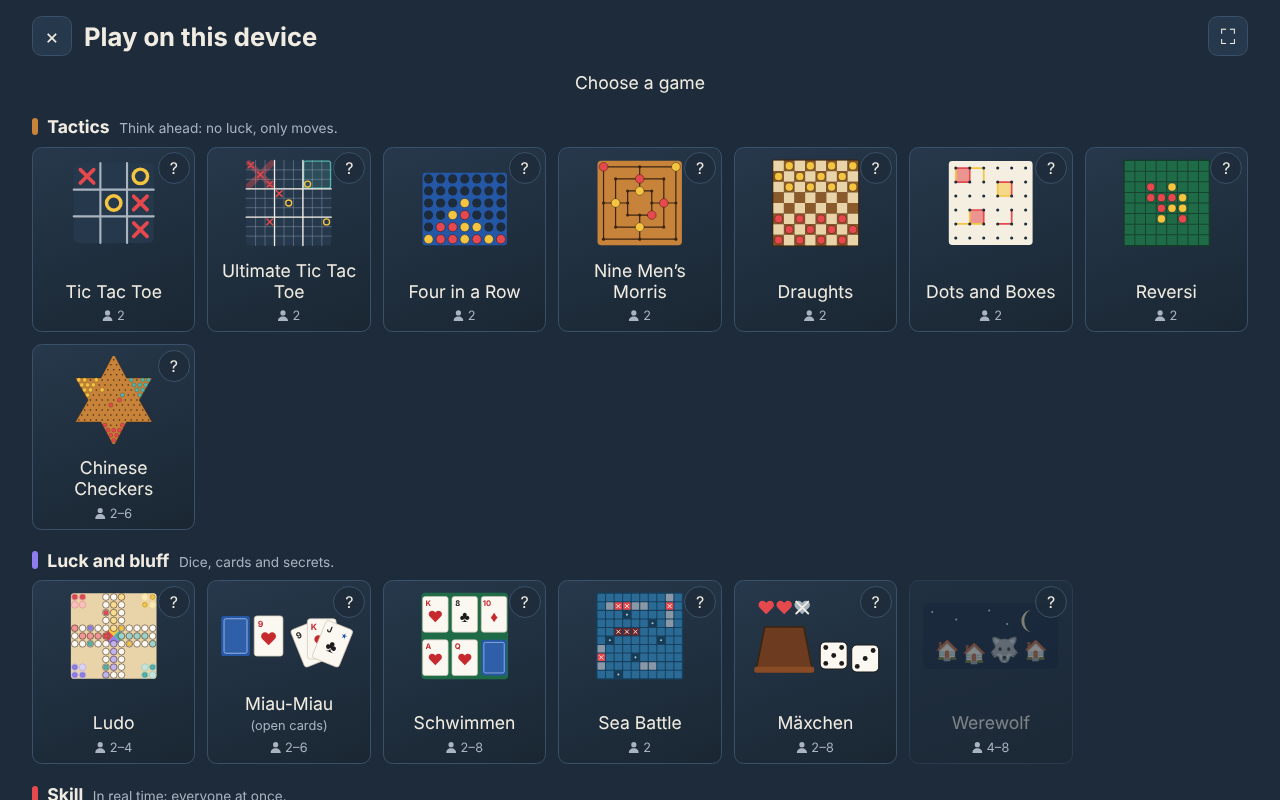
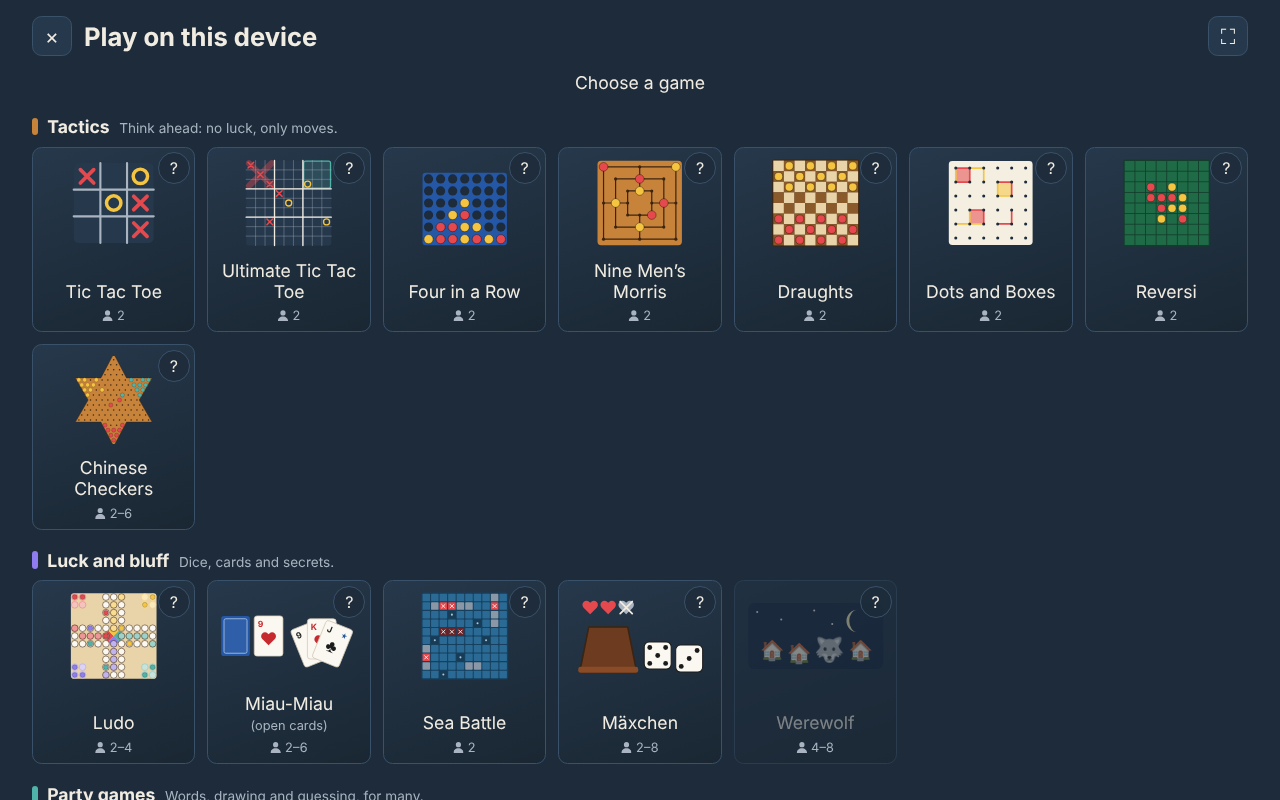
Test, document and picture Stadt, Land, Fluss
Browser tests for two phones and for one device, a README screenshot,
its rules in docs/GAMES.md, its messages in docs/NETWORKING.md, and the
kept text fields in docs/ARCHITECTURE.md. PROTOCOL goes to 11.

Claude-Session: https://claude.ai/code/session_01LTkkJNv9vfWUHTZ2KFqQVg

diff --git a/tests/e2e/words.spec.ts b/tests/e2e/words.spec.ts
@@ -1,0 +1,98 @@
+import type { Page } from '@playwright/test'
+import { expect, test } from './coverage'
+import { phone, seat } from './helpers'
+
+/**
+ * The party games of words between phones: in Stadt, Land, Fluss everyone writes at once, the
+ * fields keep what is typed while the table changes, and the answers are checked together.
+ */
+
+/** Types an answer for each category, starting with the letter, a key at a time. */
+async function writeAll(page: Page, letter: string, tag: string): Promise<void> {
+  const fields = page.locator('.answer-fields input')
+  for (let i = 0; i < 6; i++) {
+    await fields.nth(i).click()
+    await page.keyboard.type(`${letter}${tag}${i}`, { delay: 20 })
+  }
+}
+
+test('two phones play a round of City, Country, River', async ({ browser }) => {
+  const ada = await phone(browser, 'Ada')
+  const bo = await phone(browser, 'Bo')
+  await ada.getByRole('button', { name: 'Open a table' }).click()
+  await seat(ada, bo)
+  await ada.getByRole('button', { name: 'City, Country, River' }).click()
+  const letter = (await ada.locator('.letter-card .letter').textContent()) ?? ''
+  await expect(bo.locator('.letter-card .letter')).toHaveText(letter)
+  await expect(bo.locator('.status.turn')).toHaveText(
+    `Letter ${letter}: a word for every category!`,
+  )
+
+  // Both type at once: each phone's table changes with the other's answers, and the field
+  // being typed in stays, focused, with every letter.
+  await Promise.all([writeAll(ada, letter, 'ada'), writeAll(bo, letter, 'bo')])
+  await expect(bo.locator('.answer-fields input').nth(5)).toBeFocused()
+  await expect(bo.locator('.answer-fields input').nth(5)).toHaveValue(`${letter}bo5`)
+  await expect(ada.locator('.writers')).toContainText('Bo 6 of 6')
+  // Nobody sees another's answers yet.
+  await expect(bo.locator('body')).not.toContainText(`${letter}ada0`)
+
+  await ada.getByRole('button', { name: 'Stop!' }).click()
+  await expect(bo.locator('.status.turn')).toContainText('Ada called Stop!')
+  await expect(bo.locator('.status.turn')).toHaveText('Check the answers, then tap Next.', {
+    timeout: 15_000,
+  })
+
+  // Bo objects to Ada's city: with one other at the table, it is struck.
+  const city = bo.locator('.category').first()
+  await city.getByRole('button', { name: new RegExp(`Ada, ${letter}ada0`) }).click()
+  for (const page of [ada, bo]) {
+    await expect(page.locator('.category').first().locator('.word.struck')).toHaveText(
+      `${letter}ada0`,
+    )
+  }
+  await expect(ada.locator('.totals')).toContainText('Ada +50')
+  await expect(ada.locator('.totals')).toContainText('Bo +70')
+
+  for (const page of [ada, bo]) await page.getByRole('button', { name: 'Next round' }).click()
+  for (const page of [ada, bo]) {
+    await expect(page.locator('.letter-card .round')).toContainText('Round 2 of 5')
+    await expect(page.locator('.answer-fields input').first()).toHaveValue('')
+  }
+  await expect(ada.locator('.letter-card .letter')).not.toHaveText(letter)
+})
+
+test('three write City, Country, River in turn on one device', async ({ browser }) => {
+  const page = await phone(browser, 'Ada')
+  await page.getByRole('button', { name: 'Play on this device' }).click()
+  await page.getByRole('group', { name: 'Players' }).getByRole('button', { name: '3' }).click()
+  for (const [i, name] of ['Ada', 'Bo', 'Cy'].entries()) {
+    await page.getByLabel(`Name of player ${i + 1}`).fill(name)
+  }
+  await page.getByLabel('One screen, taking turns').check()
+  await page.getByRole('button', { name: 'Start' }).click()
+  await page.getByRole('button', { name: 'City, Country, River' }).click()
+  await expect(page.locator('.notice')).toContainText('everyone writes in turn')
+
+  for (const [i, name] of ['Ada', 'Bo', 'Cy'].entries()) {
+    await page.getByRole('button', { name: `I am ${name}: show my letter` }).click()
+    const letter = (await page.locator('.letter-card .letter').textContent()) ?? ''
+    await expect(page.locator('.status.turn')).toHaveText(
+      `${name} writes: letter ${letter}. The others look away.`,
+    )
+    await page.locator('.answer-fields input').first().fill(`${letter}${name}`)
+    await page.getByRole('button', { name: 'Done: next one' }).click()
+    if (i < 2) await page.getByRole('button', { name: /Done: hand over to/ }).click()
+  }
+  await expect(page.locator('.status.turn')).toHaveText('Check the answers together.')
+  await expect(page.locator('.category').first().locator('.word')).toHaveText([
+    /Ada$/,
+    /Bo$/,
+    /Cy$/,
+  ])
+  // One tap strikes Bo's city.
+  await page.locator('.category').first().locator('button.answer-check').nth(1).click()
+  await expect(page.locator('.category').first().locator('.word.struck')).toHaveCount(1)
+  await page.getByRole('button', { name: 'Next round' }).click()
+  await expect(page.getByRole('button', { name: 'Done: hand over to Ada' })).toBeVisible()
+})

diff --git a/tests/screenshots/screenshots.spec.ts b/tests/screenshots/screenshots.spec.ts
@@ -308,6 +308,31 @@ test('Werewolf', async ({ browser }) => {
   await shot(page, 'werwolf')
 })
 
+/** Answers for the letter the seeded game draws first, a row for each player. */
+const WORDS = [
+  ['Oslo', 'Österreich', 'Oder', 'Olga', 'Otter', 'Optikerin'],
+  ['Oldenburg', 'Oman', 'Oker', 'Oskar', 'Okapi', 'Oboist'],
+  ['Oslo', 'Ostfriesland', '', 'Ole', 'Orca', 'Ofensetzer'],
+]
+
+test('City, Country, River', async ({ browser }) => {
+  const page = await device(browser, PHONE)
+  await local(page, NAMES.slice(0, 3))
+  await page.getByRole('button', { name: 'City, Country, River' }).click()
+  for (const [i, answers] of WORDS.entries()) {
+    await page.getByRole('button', { name: /show my letter/ }).click()
+    await expect(page.locator('.letter-card .letter')).toHaveText('O')
+    for (const [c, word] of answers.entries()) {
+      await page.locator('.answer-fields input').nth(c).fill(word)
+    }
+    await page.getByRole('button', { name: 'Done: next one' }).click()
+    if (i < WORDS.length - 1) await page.getByRole('button', { name: /Done: hand over/ }).click()
+  }
+  // Cy's country is not one: the others strike it.
+  await page.locator('.category').nth(1).locator('button.answer-check').nth(2).click()
+  await shot(page, 'stadtlandfluss')
+})
+
 /**
  * Over the network, the host may hear from the other phone a moment earlier or later, which can
  * move the puck by a few pixels: only a larger change takes a new picture of Air Hockey.

diff --git a/docs/NETWORKING.md b/docs/NETWORKING.md
@@ -106,7 +106,7 @@ The host ticks 30 times a second (`TICK_MS`). It sends the table every tick whil
 | `round`                | the number of the game, counting rematches: a move or input for another round is ignored                   |
 | `moveNo`, `last`       | how many moves were made, and the last one, so phones can show it (never in Werwolf: it would tell a vote) |
 | `outcome`, `scores`    | winner and winning line, or draw; points per player id                                                     |
-| one field for the game | `position`, `ludo`, `cards`, `sea`, `dice`, `village`, `race` or `rink`: the others are `null`             |
+| one field for the game | `position`, `ludo`, `cards`, `sea`, `dice`, `village`, `words`, `race` or `rink`: the others are `null`    |
 
 Every field is checked: sizes fit the game and the number of seats, pieces belong to seats that play, cards come from one deck without repeats, a disc is on or near the rink.
 
@@ -116,20 +116,21 @@ Every field is checked: sizes fit the game and the number of seats, pieces belon
 { type: 'move', game, moveNo, move: number[] }
 ```
 
-A move names the game and the move number it is meant to be. The host takes it only from the player whose turn it is, only if it is that move number, and only if the rules allow it, so a move sent twice, or one meant for a position that has passed, counts at most once. Games where everyone chooses at once (Sea Battle's fleets, Werwolf's choices) take a choice whatever its move number, as long as it belongs to the phase now on.
+A move names the game and the move number it is meant to be. The host takes it only from the player whose turn it is, only if it is that move number, and only if the rules allow it, so a move sent twice, or one meant for a position that has passed, counts at most once. Games where everyone chooses at once (Sea Battle's fleets, Werwolf's choices, the answers of Stadt, Land, Fluss) take a choice whatever its move number, as long as it belongs to the phase now on. Words travel as their characters' numbers, one for each, which the host cleans and cuts.
 
 ### Each game
 
-| Game                                                                             | Table field                                                 | Everyone sees                                          | A move (`number[]`)                                                                  |
-| -------------------------------------------------------------------------------- | ----------------------------------------------------------- | ------------------------------------------------------ | ------------------------------------------------------------------------------------ |
-| Tic Tac Toe, Vier in einer Reihe, Mühle, Dame, Käsekästchen, Reversi, Sternhalma | `position`: board, turn, pieces in hand, phase, quiet moves | everything                                             | a path of cells: one cell or column, from and to, or every square of a jump          |
-| Ludo                                                                             | `ludo`: every piece's step, die, turn, last move            | everything; the host rolls                             | `4` rolls, `0`–`3` moves that piece                                                  |
-| Miau-Miau                                                                        | `cards`: `MiauView`                                         | their own hand, the others' counts, the top card       | a card `0`–`51` (with a wished suit for a jack), `52` draws, `53` passes             |
-| Sea Battle                                                                       | `sea`: `SeaView`                                            | their own fleet, every shot, the hits, the ships sunk  | a shot `0`–`99`, or a fleet: each ship's first square, plus 100 if it lies down      |
-| Mäxchen                                                                          | `dice`: `MaexView`                                          | lives, claims; the dice only the roller, until a doubt | `1` rolls, `2` doubts, `3` gives up, a throw such as `53` claims it                  |
-| Werwolf                                                                          | `village`: `WolfView`                                       | their own role, fellow wolves', the seer's findings    | the seat chosen                                                                      |
-| Lichtrenner                                                                      | `race`: riders' walls as the cells where they turn          | everything                                             | no moves; input `[round, heading]`                                                   |
-| Air hockey                                                                       | `rink`: puck, mallets, goals, pause, `clock`                | everything                                             | no moves; input `[round, x, y]`, where the mallet should go in the player's own half |
+| Game                                                                             | Table field                                                 | Everyone sees                                          | A move (`number[]`)                                                                      |
+| -------------------------------------------------------------------------------- | ----------------------------------------------------------- | ------------------------------------------------------ | ---------------------------------------------------------------------------------------- |
+| Tic Tac Toe, Vier in einer Reihe, Mühle, Dame, Käsekästchen, Reversi, Sternhalma | `position`: board, turn, pieces in hand, phase, quiet moves | everything                                             | a path of cells: one cell or column, from and to, or every square of a jump              |
+| Ludo                                                                             | `ludo`: every piece's step, die, turn, last move            | everything; the host rolls                             | `4` rolls, `0`–`3` moves that piece                                                      |
+| Miau-Miau                                                                        | `cards`: `MiauView`                                         | their own hand, the others' counts, the top card       | a card `0`–`51` (with a wished suit for a jack), `52` draws, `53` passes                 |
+| Sea Battle                                                                       | `sea`: `SeaView`                                            | their own fleet, every shot, the hits, the ships sunk  | a shot `0`–`99`, or a fleet: each ship's first square, plus 100 if it lies down          |
+| Mäxchen                                                                          | `dice`: `MaexView`                                          | lives, claims; the dice only the roller, until a doubt | `1` rolls, `2` doubts, `3` gives up, a throw such as `53` claims it                      |
+| Werwolf                                                                          | `village`: `WolfView`                                       | their own role, fellow wolves', the seer's findings    | the seat chosen                                                                          |
+| Stadt, Land, Fluss                                                               | `words`: `WordsView`                                        | their own answers; everyone's once they are checked    | `[1, category, …characters]` writes, `2` stops, `[3, seat, category]` objects, `4` ready |
+| Lichtrenner                                                                      | `race`: riders' walls as the cells where they turn          | everything                                             | no moves; input `[round, heading]`                                                       |
+| Air hockey                                                                       | `rink`: puck, mallets, goals, pause, `clock`                | everything                                             | no moves; input `[round, x, y]`, where the mallet should go in the player's own half     |
 
 **Games in real time** have no turns. A player's phone sends what they want now as the room's input, 30 times a second, of which only the newest counts, after the `round` it is meant for, so last game's input never steers the next. The host runs the game by the time that passed: Lichtrenner moves a cell a step on a grid; air hockey moves its puck in steps of 1/240 s, so nothing slides through a mallet, and each state carries the host's game time, `clock`, to the millisecond.
 

diff --git a/README.md b/README.md
@@ -49,9 +49,11 @@ Games for everyone at one table: board games, card and dice games, party games a
   </tr>
   <tr>
     <td><img src="docs/screenshots/ultimate.png" alt="Ultimate Tic Tac Toe on a phone: nine small boards, two of them won, and the board to play in marked"></td>
+    <td><img src="docs/screenshots/stadtlandfluss.png" alt="City, Country, River: the letter O, and every player's answers with their points, one of them struck"></td>
   </tr>
   <tr>
     <td>Ultimate Tic Tac Toe</td>
+    <td>City, Country, River: checking the answers</td>
   </tr>
 </table>
 
@@ -59,7 +61,7 @@ On a laptop or a tablet, the game chooser, and games on one device, taking turns
 
 <table>
   <tr>
-    <td colspan="2"><img src="docs/screenshots/chooser.png" alt="The game chooser: Tactics, Luck and bluff, and Skill, each game with its picture and number of players"></td>
+    <td colspan="2"><img src="docs/screenshots/chooser.png" alt="The game chooser: Tactics, Luck and bluff, Party games and Skill, each game with its picture and number of players"></td>
   </tr>
   <tr>
     <td width="50%"><img src="docs/screenshots/miaumiau-split.png" alt="Miau-Miau for four on a split screen, each part with its own hand"></td>
@@ -106,16 +108,16 @@ In the app, phones can also connect **by Bluetooth**, without any Wi-Fi. On a la
 
 ## The games
 
-| Tactics                                                       | Luck and bluff                            | Skill                                           |
-| ------------------------------------------------------------- | ----------------------------------------- | ----------------------------------------------- |
-| [Tic Tac Toe](docs/GAMES.md#tic-tac-toe), 2                   | [Ludo](docs/GAMES.md#ludo), 2–4           | [Light Racers](docs/GAMES.md#light-racers), 2–6 |
-| [Ultimate Tic Tac Toe](docs/GAMES.md#ultimate-tic-tac-toe), 2 | [Miau-Miau](docs/GAMES.md#miau-miau), 2–6 | [Air Hockey](docs/GAMES.md#air-hockey), 2       |
-| [Four in a Row](docs/GAMES.md#four-in-a-row), 2               | [Schwimmen](docs/GAMES.md#schwimmen), 2–8 |                                                 |
-| [Nine Men's Morris](docs/GAMES.md#nine-mens-morris), 2        | [Sea Battle](docs/GAMES.md#sea-battle), 2 |                                                 |
-| [Draughts](docs/GAMES.md#draughts), 2                         | [Mäxchen](docs/GAMES.md#mäxchen), 2–8     |                                                 |
-| [Dots and Boxes](docs/GAMES.md#dots-and-boxes), 2             | [Werewolf](docs/GAMES.md#werewolf), 4–8   |                                                 |
-| [Reversi](docs/GAMES.md#reversi), 2                           |                                           |                                                 |
-| [Chinese Checkers](docs/GAMES.md#chinese-checkers), 2–6       |                                           |                                                 |
+| Tactics                                                       | Luck and bluff                            | Party                                                         | Skill                                           |
+| ------------------------------------------------------------- | ----------------------------------------- | ------------------------------------------------------------- | ----------------------------------------------- |
+| [Tic Tac Toe](docs/GAMES.md#tic-tac-toe), 2                   | [Ludo](docs/GAMES.md#ludo), 2–4           | [City, Country, River](docs/GAMES.md#city-country-river), 2–8 | [Light Racers](docs/GAMES.md#light-racers), 2–6 |
+| [Ultimate Tic Tac Toe](docs/GAMES.md#ultimate-tic-tac-toe), 2 | [Miau-Miau](docs/GAMES.md#miau-miau), 2–6 |                                                               | [Air Hockey](docs/GAMES.md#air-hockey), 2       |
+| [Four in a Row](docs/GAMES.md#four-in-a-row), 2               | [Schwimmen](docs/GAMES.md#schwimmen), 2–8 |                                                               |                                                 |
+| [Nine Men's Morris](docs/GAMES.md#nine-mens-morris), 2        | [Sea Battle](docs/GAMES.md#sea-battle), 2 |                                                               |                                                 |
+| [Draughts](docs/GAMES.md#draughts), 2                         | [Mäxchen](docs/GAMES.md#mäxchen), 2–8     |                                                               |                                                 |
+| [Dots and Boxes](docs/GAMES.md#dots-and-boxes), 2             | [Werewolf](docs/GAMES.md#werewolf), 4–8   |                                                               |                                                 |
+| [Reversi](docs/GAMES.md#reversi), 2                           |                                           |                                                               |                                                 |
+| [Chinese Checkers](docs/GAMES.md#chinese-checkers), 2–6       |                                           |                                                               |                                                 |
 
 Each game's rules are in the Spielekiste, a step at a time with drawings, and in short in [docs/GAMES.md](docs/GAMES.md).
 

diff --git a/docs/ARCHITECTURE.md b/docs/ARCHITECTURE.md
@@ -26,6 +26,12 @@ Sea Battle (`src/core/seeschlacht.ts`) works the same way: the host alone knows 
 
 Dice and roles stay hidden the same way. In Mäxchen (`src/core/maexchen.ts`), the host rolls with the browser's cryptographic randomness, and only the roller's `MaexView` holds the dice, until a doubt lifts the cup for everyone. A move is a number: 1 rolls, 2 doubts, 3 gives up, and a throw such as 53 says it. In Werwolf (`src/core/werwolf.ts`), each phone's `WolfView` holds its own role, the other wolves' for a wolf, what the seer learned, and the roles of those out. Everyone chooses at once, at night and by day, so a choice (the seat chosen) may come with an older move number, but none from before the night or day began, and none ever shows as the last move. A won game counts for every player of the winning team.
 
+## Words stay hidden, and stay put
+
+Stadt, Land, Fluss (`src/core/stadtlandfluss.ts`) shows each phone its own answers, `WordsView`, until the round is checked. Everyone writes at once, so an answer may come with an older move number, but none from before this round's writing or checking began; a player's phone sends each field a moment after they stop typing. The host runs the round's time with `Table.tick`, which says when a second more is gone, so the phones count down. Words travel as their characters' numbers (`src/core/text.ts`), which the host cleans and cuts, and the rules compare them without capitals, accents or spaces. On one device (`new Table(random, { together: true })`), players write one after the other instead, with no time running.
+
+The screens draw everything anew whenever the table changes, which would take a text field out of the page as a player types, and close the keyboard. So a view keeps its fields through `Picker.keep` and puts `keptPlace(field)` where one goes; `replaceKeeping` (`src/ui/keep.ts`) then draws the screen around fields already on it, without taking them out.
+
 ## Games in real time
 
 Games in real time (Lichtrenner, `src/core/lichtrenner.ts`, and air hockey, `src/core/airhockey.ts`) have no turns. Each player's phone sends what they want now as the room's input, 30 times a second, of which only the newest counts: a heading, or where the mallet should go in their own half as they see it, after the number of the game it is meant for (`round`), so last game's input never steers the next. The host runs the game by the time that passed, 30 times a second (`Table.tick`), and sends the table that often while one is on, and every third tick otherwise. Lichtrenner moves a cell a step on a grid and sends each rider's wall as the cells where it turns, never more than fits in one message; air hockey runs its puck in steps of 1/240 s, so that nothing slides through a mallet, and phones draw the puck gliding on between two states.
@@ -80,14 +86,15 @@ About (`src/ui/about.ts`, `src/ui/privacy.ts`) reads `CHANGELOG.md` and the priv
 src/
   core/       the rules: board.ts, tictactoe.ts, ultimate.ts, fourInARow.ts, muehle.ts, dame.ts,
               kaesekaestchen.ts, reversi.ts, sternhalma.ts, ludo.ts, miaumiau.ts, schwimmen.ts,
-              seeschlacht.ts, maexchen.ts, werwolf.ts, lichtrenner.ts, airhockey.ts, games.ts,
-              table.ts
+              seeschlacht.ts, maexchen.ts, werwolf.ts, stadtlandfluss.ts, text.ts (words players
+              write), lichtrenner.ts, airhockey.ts, games.ts, table.ts
   net/        protocol.ts: the messages and their parsers; session.ts: the host's and players' seats;
               clock.ts and smooth.ts: air hockey's drawing between states, with the Kalman filter;
               netlog.ts: the connections of the last table, for the connection view and the report
   ui/         the screens: home.ts, table.ts, local.ts (playing on one device), game.ts (what every
               table shows), boards.ts, ludo.ts (Ludo's board and die), cards.ts, swim.ts
-              (Schwimmen), sea.ts (Sea Battle's seas), dice.ts (Mäxchen), village.ts (Werwolf), live.ts, canvas.ts, race.ts
+              (Schwimmen), sea.ts (Sea Battle's seas), dice.ts (Mäxchen), village.ts (Werwolf), words.ts (Stadt, Land,
+              Fluss), keep.ts (fields that stay while the screen is drawn anew), live.ts, canvas.ts, race.ts
               and rink.ts (the fields of the games in real time), codes.ts (QR codes and text
               codes), rules/ (each game's thumbnail and rules with drawings), hero.ts (the start
               screen's picture, made of those thumbnails), updates.ts and webUpdates.ts (the
@@ -123,6 +130,7 @@ tests/e2e/    Playwright: phones in separate browser profiles pair through the t
               local.spec.ts: playing on one device, taking turns (Sea Battle handed over) and on a split screen;
               live.spec.ts: the games in real time between phones and on one device;
               party.spec.ts: Mäxchen and Werwolf between phones, and Werwolf handed round one device
+              words.spec.ts: Stadt, Land, Fluss between phones, and in turn on one device
               about.spec.ts: About, its licenses, and the privacy policy in it and as privacy.html;
               connection.spec.ts: the connection details, the connection test and the debug report;
               offline.spec.ts: the built website installs, opens offline, and takes a new build

diff --git a/docs/GAMES.md b/docs/GAMES.md
@@ -2,24 +2,25 @@
 
 The Spielekiste's games and their rules, in short. In the Spielekiste, each game's **?** in the chooser, or **Rules** beside its name in a game, shows its rules a step at a time, with drawings.
 
-| Game                                  | Players |
-| ------------------------------------- | ------- |
-| Tic Tac Toe                           | 2       |
-| Ultimate Tic Tac Toe                  | 2       |
-| Four in a Row (_Vier in einer Reihe_) | 2       |
-| Nine Men's Morris (_Mühle_)           | 2       |
-| Draughts (_Dame_)                     | 2       |
-| Ludo (dice)                           | 2–4     |
-| Miau-Miau (Mau-Mau, cards)            | 2–6     |
-| Schwimmen (31, cards)                 | 2–8     |
-| Sea Battle (_Schiffe versenken_)      | 2       |
-| Mäxchen (dice)                        | 2–8     |
-| Werewolf (_Werwolf_)                  | 4–8     |
-| Light Racers (_Lichtrenner_), live    | 2–6     |
-| Air Hockey (_Airhockey_), live        | 2       |
-| Dots and Boxes (_Käsekästchen_)       | 2       |
-| Reversi                               | 2       |
-| Chinese Checkers (_Sternhalma_)       | 2–6     |
+| Game                                        | Players |
+| ------------------------------------------- | ------- |
+| Tic Tac Toe                                 | 2       |
+| Ultimate Tic Tac Toe                        | 2       |
+| Four in a Row (_Vier in einer Reihe_)       | 2       |
+| Nine Men's Morris (_Mühle_)                 | 2       |
+| Draughts (_Dame_)                           | 2       |
+| Ludo (dice)                                 | 2–4     |
+| Miau-Miau (Mau-Mau, cards)                  | 2–6     |
+| Schwimmen (31, cards)                       | 2–8     |
+| Sea Battle (_Schiffe versenken_)            | 2       |
+| Mäxchen (dice)                              | 2–8     |
+| Werewolf (_Werwolf_)                        | 4–8     |
+| City, Country, River (_Stadt, Land, Fluss_) | 2–8     |
+| Light Racers (_Lichtrenner_), live          | 2–6     |
+| Air Hockey (_Airhockey_), live              | 2       |
+| Dots and Boxes (_Käsekästchen_)             | 2       |
+| Reversi                                     | 2       |
+| Chinese Checkers (_Sternhalma_)             | 2–6     |
 
 ## Tic Tac Toe
 
@@ -64,6 +65,14 @@ A dice game of bluffing, with three lives each. The player to move rolls two dic
 ## Werewolf
 
 A village of four to eight, with werewolves hidden in it: one for four and five players, two from six, a seer always and a healer from five; everyone else is a villager. Each phone shows only its own role, and the werewolves see each other. At night, everyone taps someone in secret: the werewolves a victim (chance decides if they disagree), the seer whom to learn about, the healer whom to protect, themselves too but not the same twice in a row, and villagers whom they suspect, which changes nothing but gives no role away. In the morning, everyone learns who was taken, and what they were. By day, the village talks, then everyone still in votes: whoever gets the most votes is out and their role shown, and a tie banishes nobody. The village wins once every werewolf is out, the werewolves once they are as many as the others; a win counts for the whole team. Werewolf is a party game anyone may play; the Spielekiste's roles and words are its own.
+
+## City, Country, River
+
+_Stadt, Land, Fluss_, for two to eight. Each round has a letter, drawn by chance, a new one every round (never C, Q, X or Y). Everyone writes, on their own phone, a word starting with it for each category: a city, a country, a river, a first name, an animal and a job; Ä counts as A. Nobody sees another's answers while they write. Whoever has a word in every category may call **Stop!**: the others have ten seconds left. After three minutes, the round ends anyway.
+
+Then everyone sees every answer, and taps those of the others that do not count, such as a river that does not exist: an answer that more than half of the others object to counts nothing, and so does one that does not start with the letter. An answer counts 20 if nobody else has one in its category, 10 if nobody else has the same word, and 5 if someone does. Once everyone has tapped **Next round**, the next letter comes. After five rounds, the most points win; with the same, it is a draw.
+
+On one device, everyone writes in turn, as long as they like, while the others look away, and taps **Done**; then the answers are checked together, and one tap strikes an answer.
 
 ## Light Racers
 

diff --git a/docs/PLAYING.md b/docs/PLAYING.md
@@ -9,7 +9,7 @@ Play in the browser at **[fionapreroll.github.io/vibe-mugames](https://fionaprer
 1. **Open a table** on the first phone, then **Add player**: it shows a QR code. In the app, both phones can connect by Bluetooth instead ([below](#by-bluetooth-in-the-app)).
 2. On the new player's phone, **Join a table** and scan that code. The phone then shows a code of its own, which the first phone scans.
    Without a camera, both codes can be copied and pasted as text. If the camera will not focus on the screen, tap the picture to focus, zoom out and hold the phone further away, switch cameras, or take a photo of the code instead. Sending a code over may take its time: the joining phone waits up to 10 minutes for the host to take its code. If a connection fails, both phones say so and offer **Try again**.
-3. The host chooses a game. Up to eight phones sit at a table: two play the board games, Sea Battle and Air Hockey, up to four Ludo, up to six Miau-Miau, Light Racers and Chinese Checkers, up to eight Mäxchen and four to eight Werewolf, and the others watch and take turns. After a game, the winner stays and the others who played go to the back of the queue; when nobody waits, the next player in turn starts.
+3. The host chooses a game. Up to eight phones sit at a table: two play the board games, Sea Battle and Air Hockey, up to four Ludo, up to six Miau-Miau, Light Racers and Chinese Checkers, up to eight Mäxchen and City, Country, River, four to eight Werewolf, and the others watch and take turns. After a game, the winner stays and the others who played go to the back of the queue; when nobody waits, the next player in turn starts.
 
 ## By Bluetooth, in the app
 
@@ -19,7 +19,7 @@ When joining a table or adding a player, the app asks how the phones connect: **
 
 On a laptop or a tablet, **Play on this device** on the start screen seats two to six players at the device, with their names, and no network at all. They either take turns on one screen, which names whose turn it is and keeps the board the same way round for everyone, or, from two to four, split the screen into a part for each player, with their own view: their own cards, and in Draughts their own pieces at the bottom. A part turns round with **⟲**, for a player sitting across the table.
 
-Games with hidden cards, such as Miau-Miau, are played with open cards there: everyone can see every hand, and the lobby and the game say so. Sea Battle keeps its fleets hidden instead, Mäxchen the dice under the cup and Werewolf the roles: taking turns, the device asks to be handed over after each player's turn and shows nothing until the next player says they hold it; on a split screen, a player's own fleet, dice or role shows only while they ask to see it.
+Games with hidden cards, such as Miau-Miau, are played with open cards there: everyone can see every hand, and the lobby and the game say so. Sea Battle keeps its fleets hidden instead, Mäxchen the dice under the cup and Werewolf the roles: taking turns, the device asks to be handed over after each player's turn and shows nothing until the next player says they hold it; on a split screen, a player's own fleet, dice or role shows only while they ask to see it. In City, Country, River, everyone writes in turn, while the others look away, and the answers are then checked together.
 
 In the games in real time, everyone steers at once: on one screen, each player has their own keys and buttons (W A S D, the arrow keys, I J K L and the number pad's 8 4 5 6), and in Air Hockey a finger on either half of the rink moves that half's mallet; on a split screen, each part has its own field, and Air Hockey shows each player the rink from their end, with their goal at the bottom (or only their half, as the settings say). The device remembers who played and how.
 

diff --git a/docs/DEVELOPMENT.md b/docs/DEVELOPMENT.md
@@ -66,8 +66,9 @@ The icon, an open games box with a card, a draughts piece and a pawn, is drawn i
 2. Give it a name in `src/i18n.ts`, in English and German, and a board in `src/ui/boards.ts`. Moves of several cells are picked there one cell at a time from the rules' `moves()`, so a board only needs to draw its cells.
 3. If it needs more than a board of cells, such as dice or hidden cards, extend the table and the protocol, and raise `PROTOCOL` in `src/net/protocol.ts`. Miau-Miau shows how: its own state on the table, a view per player sent through `stateFor`, its seat range in `seatRange` (`src/core/games.ts`), and a parser for its view. A game that hides something from some players also goes into `hasHiddenCards` there, so that on one device it says it is played open, or, like Sea Battle, into `handsOver`, if one device can keep it hidden by being handed over.
 4. Give it a guide in `src/ui/rules/` (`GUIDES` in `index.ts`; the type check fails without one): a thumbnail for the game chooser and its rules, a step at a time, each a text in `src/i18n.ts` (`rules<Game>1`, …) with a drawing made with the helpers in `src/ui/rules/draw.ts`, as small inline SVG.
-5. A game in real time goes into `LIVE_GAME_IDS` (`src/core/board.ts`): its rules run by time and by what each seat wants (`Table.input` and `Table.tick`), and its field is a canvas made by `LiveSlot` (`src/ui/live.ts`), as Lichtrenner and air hockey show.
-6. Give it a screenshot: a test in `tests/screenshots/screenshots.spec.ts`, then `pnpm screenshots`, and the picture in the README's gallery.
+5. A game where players type, such as Stadt, Land, Fluss, keeps its text fields between redraws with `Picker.keep` and `keptPlace` (`src/ui/keep.ts`), and sends its words as numbers (`src/core/text.ts`). A game whose time runs out runs it in `Table.tick`.
+6. A game in real time goes into `LIVE_GAME_IDS` (`src/core/board.ts`): its rules run by time and by what each seat wants (`Table.input` and `Table.tick`), and its field is a canvas made by `LiveSlot` (`src/ui/live.ts`), as Lichtrenner and air hockey show.
+7. Give it a screenshot: a test in `tests/screenshots/screenshots.spec.ts`, then `pnpm screenshots`, and the picture in the README's gallery.
 
 ## Workflows
 

diff --git a/CHANGELOG.md b/CHANGELOG.md
@@ -56,6 +56,8 @@ All changes players can notice are listed here. The format follows [Keep a Chang
 - Stickers on the box on the start screen, in their flags' colours, sparkling a little: Trans Day of Visibility, IDAHOBIT, Pride Month, International Non-Binary People's Day, Bi Visibility Day, Coming Out Day, Intersex Awareness Day, Ace Week, Trans Awareness Month and Week, and the Transgender Day of Remembrance, whose sticker holds a quietly glowing candle instead. When several fall together, each has its own. Hover over a sticker or tap it to read what it is for.
 - Ultimate Tic Tac Toe, for two: nine boards of Tic Tac Toe make one big board, and the square you mark sends the other player to the small board in the same place. Win three small boards in a row to win. The board marks where the next mark must go, and below it counts the boards each player has won.
 - Schwimmen (also called 31), the card game for two to eight: swap cards with the three in the middle to get as many points of one suit as you can, up to 31, and knock when your hand is good. The fewest points cost a coin; without one left you swim, and the last one still in wins. Each phone sees only its own hand; on one device, the device is handed over, or on a split screen each hand stays hidden until its player shows it. A help explains what the cards count, a line says what the player before did, and after each round everyone's hands are shown.
+- City, Country, River (_Stadt, Land, Fluss_), for two to eight: each round has a letter, and everyone writes a city, a country, a river, a first name, an animal and a job that start with it, each on their own phone. Whoever has all six may call Stop, and the others have ten seconds left; after three minutes, the round ends anyway. Then everyone sees every answer and taps those that do not count: struck by more than half of the others, they count nothing. An answer alone in its category counts 20, one nobody else has 10, one shared 5; after five rounds the most points win. On one device, everyone writes in turn while the others look away, and the answers are checked together.
+- A new group in the game chooser, Party games, for games of words, drawing and guessing.
 
 ### Changed
 
